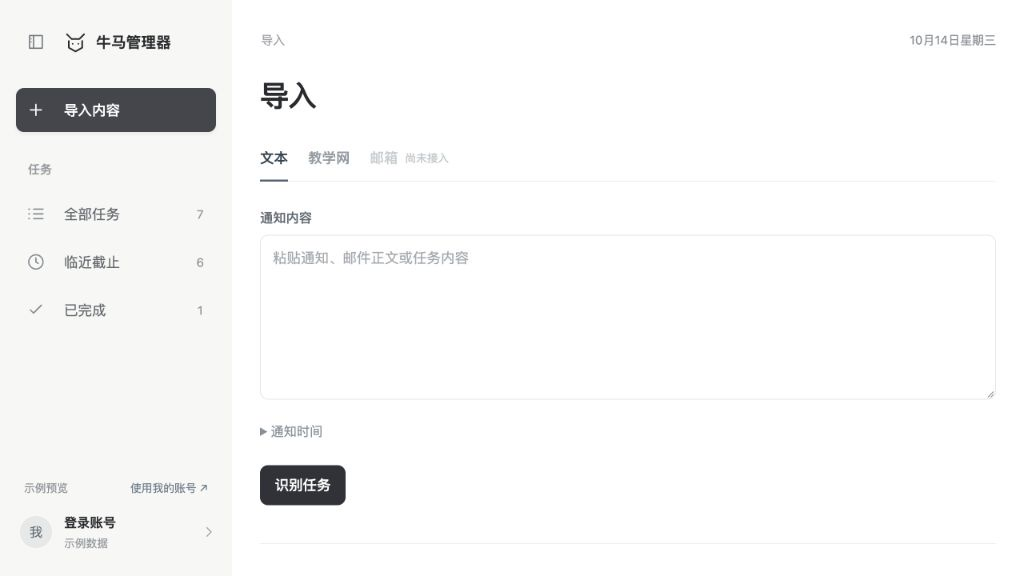
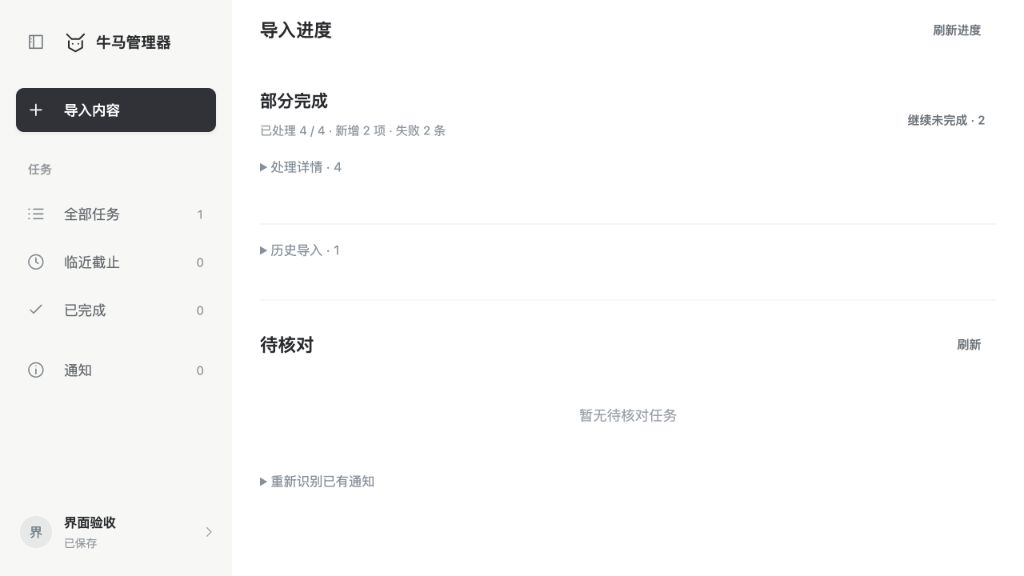
fix(frontend): remove duplicate import review history

diff --git a/frontend/src/import-ui.js b/frontend/src/import-ui.js
@@ -413,12 +413,12 @@ export function createImportUI(host) {
       queueMicrotask(load);
     const items = allItems(),
       pending = items.filter((item) => item.state === "pending"),
-      ignored = items.filter((item) => item.state === "ignored"),
-      applied = items.filter((item) => item.state === "applied");
+      ignored = items.filter((item) => item.state === "ignored");
     const failures = batches.filter((batch) =>
-      ["failed", "partial_success"].includes(batch.result?.status),
+      ["failed", "partial_success"].includes(batch.result?.status) &&
+      !sourceSync.ownsRequest(batch.request.request_id),
     );
-    return `${renderPageHeading({ title: "导入", escapeHtml: esc })}<div class="page-reading"><div class="import-source-tabs" role="group" aria-label="导入来源"><button type="button" class="btn ${source === "text" ? "selected" : "quiet"}" data-import-source="text" aria-pressed="${source === "text"}" ${blocked() ? "disabled" : ""}>文本</button><button type="button" class="btn ${source === "teaching" ? "selected" : "quiet"}" data-import-source="teaching" aria-pressed="${source === "teaching"}" ${blocked() ? "disabled" : ""}>教学网</button><button type="button" class="btn quiet" disabled title="邮箱尚未接入">邮箱 <span class="status-note">尚未接入</span></button></div><section class="import-input">${source === "text" ? `<form data-import-form="text"><label class="field" for="import-text">通知内容<textarea id="import-text" name="text" rows="6" maxlength="4000" placeholder="粘贴通知、邮件正文或任务内容" ${blocked() ? "disabled" : ""}>${esc(text)}</textarea></label><details class="import-time"><summary>通知时间</summary><label class="field" for="import-published">发布时间<input id="import-published" name="published" type="datetime-local" step="1" value="${esc(published)}" ${blocked() ? "disabled" : ""}></label><p class="status-note">按此时间理解“今天”“明天”。</p></details><div class="import-form-actions"><button class="btn primary" type="submit" ${blocked() ? "disabled" : ""}>${busy && source === "text" ? "正在识别…" : "识别任务"}</button></div></form>` : `<div class="teaching-import"><div><h2>教学网作业</h2><p class="status-note">${credentials?.configured ? "已连接 " + esc(credentials.username) : loading ? "正在读取连接…" : "连接账号后采集作业与通知"}</p></div><div class="import-form-actions"><button class="btn primary" type="button" data-import-action="sync" ${blocked() || loading ? "disabled" : ""}>${busy ? "正在采集…" : credentials?.configured ? "采集并识别" : "连接教学网"}</button>${credentials?.configured ? `<button class="btn quiet" type="button" data-import-action="credentials" ${blocked() ? "disabled" : ""}>管理连接</button>` : ""}</div></div>`}${busy ? `<div class="import-progress" role="status"><span class="status-note">${esc(progress || "正在处理…")}</span><button class="btn quiet" type="button" data-import-action="stop">停止导入</button></div>` : ""}${sourceSync.render()}${errorMarkup(error)}${notice && !busy ? `<p class="status-note" role="status">${esc(notice)}</p>` : ""}</section><section class="import-results"><div class="section-heading"><h2>待核对${pending.length ? ` <span class="status-note">${pending.length}</span>` : ""}</h2><button class="btn quiet" type="button" data-import-action="refresh" ${blocked() || loading ? "disabled" : ""}>${loading ? "读取中…" : "刷新"}</button></div>${pending.length ? pending.map(candidateRow).join("") : `<p class="empty-state">${loading ? "正在读取导入结果…" : "暂无待核对任务"}</p>`}${failures.map((batch) => `<div class="import-failure"><div class="import-failure-copy">${failureSourcesMarkup(batch)}${errorMarkup(batchErrorReport(batch))}</div>${!incomplete(batch) && !sourceSync.ownsRequest(batch.request.request_id) ? `<button class="btn quiet" type="button" data-import-retry="${esc(batch.request.request_id)}" ${blocked() ? "disabled" : ""}>重试识别</button>` : ""}</div>`).join("")}${ignored.length ? `<details class="import-history"><summary>已忽略 · ${ignored.length}</summary>${ignored.map(candidateRow).join("")}</details>` : ""}${applied.length ? `<details class="import-history"><summary>已处理 · ${applied.length}</summary>${applied.map(candidateRow).join("")}</details>` : ""}</section>${reprocessing.render()}</div>`;
+    return `${renderPageHeading({ title: "导入", escapeHtml: esc })}<div class="page-reading"><div class="import-source-tabs" role="group" aria-label="导入来源"><button type="button" class="btn ${source === "text" ? "selected" : "quiet"}" data-import-source="text" aria-pressed="${source === "text"}" ${blocked() ? "disabled" : ""}>文本</button><button type="button" class="btn ${source === "teaching" ? "selected" : "quiet"}" data-import-source="teaching" aria-pressed="${source === "teaching"}" ${blocked() ? "disabled" : ""}>教学网</button><button type="button" class="btn quiet" disabled title="邮箱尚未接入">邮箱 <span class="status-note">尚未接入</span></button></div><section class="import-input">${source === "text" ? `<form data-import-form="text"><label class="field" for="import-text">通知内容<textarea id="import-text" name="text" rows="6" maxlength="4000" placeholder="粘贴通知、邮件正文或任务内容" ${blocked() ? "disabled" : ""}>${esc(text)}</textarea></label><details class="import-time"><summary>通知时间</summary><label class="field" for="import-published">发布时间<input id="import-published" name="published" type="datetime-local" step="1" value="${esc(published)}" ${blocked() ? "disabled" : ""}></label><p class="status-note">按此时间理解“今天”“明天”。</p></details><div class="import-form-actions"><button class="btn primary" type="submit" ${blocked() ? "disabled" : ""}>${busy && source === "text" ? "正在识别…" : "识别任务"}</button></div></form>` : `<div class="teaching-import"><div><h2>教学网作业</h2><p class="status-note">${credentials?.configured ? "已连接 " + esc(credentials.username) : loading ? "正在读取连接…" : "连接账号后采集作业与通知"}</p></div><div class="import-form-actions"><button class="btn primary" type="button" data-import-action="sync" ${blocked() || loading ? "disabled" : ""}>${busy ? "正在采集…" : credentials?.configured ? "采集并识别" : "连接教学网"}</button>${credentials?.configured ? `<button class="btn quiet" type="button" data-import-action="credentials" ${blocked() ? "disabled" : ""}>管理连接</button>` : ""}</div></div>`}${busy ? `<div class="import-progress" role="status"><span class="status-note">${esc(progress || "正在处理…")}</span><button class="btn quiet" type="button" data-import-action="stop">停止导入</button></div>` : ""}${sourceSync.render()}${failures.length ? `<details class="import-history"><summary>历史导入 · 识别未完成 ${failures.length}</summary>${failures.map((batch) => `<div class="import-failure"><div class="import-failure-copy">${failureSourcesMarkup(batch)}${errorMarkup(batchErrorReport(batch))}</div>${!incomplete(batch) && !sourceSync.ownsRequest(batch.request.request_id) ? `<button class="btn quiet" type="button" data-import-retry="${esc(batch.request.request_id)}" ${blocked() ? "disabled" : ""}>重试识别</button>` : ""}</div>`).join("")}</details>` : ""}${errorMarkup(error)}${notice && !busy ? `<p class="status-note" role="status">${esc(notice)}</p>` : ""}</section><section class="import-results"><div class="section-heading"><h2>待核对${pending.length ? ` <span class="status-note">${pending.length}</span>` : ""}</h2><button class="btn quiet" type="button" data-import-action="refresh" ${blocked() || loading ? "disabled" : ""}>${loading ? "读取中…" : "刷新"}</button></div>${pending.length ? pending.map(candidateRow).join("") : `<p class="empty-state">${loading ? "正在读取导入结果…" : "暂无待核对任务"}</p>`}${ignored.length ? `<details class="import-history"><summary>已忽略 · ${ignored.length}</summary>${ignored.map(candidateRow).join("")}</details>` : ""}</section>${reprocessing.render()}</div>`;
   }
   function dialogHeader(title) {
     return `<header class="dialog-header"><h2>${esc(title)}</h2><button class="icon-button" type="button" data-import-action="close" aria-label="关闭">${host.icon("close")}</button></header>`;
@@ -539,7 +539,7 @@ export function createImportUI(host) {
         (batch) => batch.request.request_id === request.body.request_id,
       )?.result;
       if (["failed", "partial_success"].includes(result?.status))
-        error = "部分通知识别失败，可在下方重试";
+        error = "部分通知识别失败，可展开历史导入重试";
       else
         notice =
           result?.status === "no_tasks"

diff --git a/frontend/tests/import-flow.test.js b/frontend/tests/import-flow.test.js
@@ -250,7 +250,7 @@ test('a teaching run with two server-created tasks refreshes both as normal task
  const source=teachingCase('two-tasks'),f=fixture({syncCases:[source]});await f.login();
  const ui=createImportUI(f.host);await ui.load();await ui.click({dataset:{importSource:'teaching'}});await ui.click({dataset:{importAction:'sync'}});
  const html=ui.render();
- for(const candidate of source.result.tasks)assert.ok(html.includes(escapeHtml(candidate.title)));
+ assert.doesNotMatch(html.split('class="import-results"')[1],/已处理 ·|:storage:/);
  assert.equal(f.calls.filter(call=>call.path.endsWith('/resolve')).length,0);
  assert.equal(f.host.getState().tasks.length,2);
  assert.ok(f.host.getState().tasks.every(task=>task.status==='todo'));
@@ -261,8 +261,11 @@ test('retrying a saved teaching failure outside background runs sends its identi
  const source=teachingCase('date-only'),f=fixture({syncCases:[source]});
  f.batches.A.push({request:structuredClone(source.request),result:{...structuredClone(source.result),status:'failed',tasks:[],errors:[{code:'agent_timeout',message:'agent_timeout',retryable:true}]},items:[]});
  await f.login();const ui=createImportUI(f.host);await ui.load();await ui.click({dataset:{importSource:'teaching'}});
- assert.ok(ui.render().includes(`data-import-retry="${source.run.request_id}"`));
- assert.match(ui.render(),/识别服务连接失败或超时/);
+ const html=ui.render();
+ assert.match(html,/<details class="import-history"><summary>历史导入 · 识别未完成 1<\/summary>/);
+ assert.ok(html.includes(`data-import-retry="${source.run.request_id}"`));
+ assert.match(html,/识别服务连接失败或超时/);
+ assert.doesNotMatch(html.split('class="import-results"')[1],/import-failure|data-import-retry/);
  await ui.click({dataset:{importRetry:source.run.request_id}});
  const calls=f.calls.filter(call=>['/api/recognition/batches','/api/recognition/retry'].includes(call.path)&&call.method==='POST');
  assert.deepEqual(calls.map(call=>({path:call.path,body:call.body})),[{path:'/api/recognition/retry',body:source.run}]);

diff --git a/frontend/tests/import-auto.test.js b/frontend/tests/import-auto.test.js
@@ -260,6 +260,8 @@ check('retrying a failed background record sends only stored request identity an
   const entry = teaching(), f = fixture({failedRequests: [entry.run.request_id]}), ui = await ready(f, t);await sync(ui);
   const failedRun = f.accounts.A.runs[0];assert.equal(f.state.tasks.length, 1);
   assert.doesNotMatch(ui.render(), new RegExp(`data-import-retry="${entry.run.request_id}"`));
+  assert.doesNotMatch(ui.render(), /import-failure|历史导入 · 识别未完成/);
+  assert.doesNotMatch(ui.render().split('class="import-results"')[1], /已处理 ·|class="error"/);
   await ui.click({dataset: {sourceSyncAction: 'retry', sourceSyncRun: failedRun.run_id, sourceSyncRequest: entry.run.request_id}});
   const retry = f.calls.find(call => call.path.endsWith('/retry'));
   assert.deepEqual(retry.body.request_ids, [entry.run.request_id]);assert.equal(Object.hasOwn(retry.body, 'records'), false);

diff --git a/frontend/docs/design.md b/frontend/docs/design.md
@@ -65,7 +65,7 @@
 
 文本识别仍使用当前页面请求，“停止导入”取消等待及后续前端处理；点击后说明后台已开始的识别可能继续，按钮旁不常驻说明。前端不提供定时同步配置或任务排程入口。
 
-核对区同时保留识别摘录、可展开的完整原文和安全来源链接；失败及来源待补全通知显示课程、通知名称与来源身份。已忽略与已处理内容折叠，避免页面堆满历史卡片。原文只有日期时，具体时刻可留空。
+核对区只展示待核对候选，保留识别摘录、可展开的完整原文和安全来源链接；已忽略内容折叠并可撤回，已处理候选不重复展示。失败及来源待补全通知在导入进度与历史导入中查看；未关联后台运行的旧失败批次保留折叠历史与重试入口。原文只有日期时，具体时刻可留空。
 
 人工核对时明确确认新增、更新、延期或取消的动作和目标任务，并检查候选及任务版本。失败保留成功结果并提供重试；账号变化后，旧请求不能把原账号的结果写回页面。
 
@@ -100,7 +100,7 @@
 
 ![手机日历与当日清单](screenshots/calendar-mobile.jpg)
 
-![文本与教学网导入入口](screenshots/import-desktop.jpg)
+![导入进度、历史导入与待核对空状态](screenshots/import-desktop.jpg)
 
 ![识别摘录与完整通知原文](screenshots/import-evidence-desktop.jpg)
 
